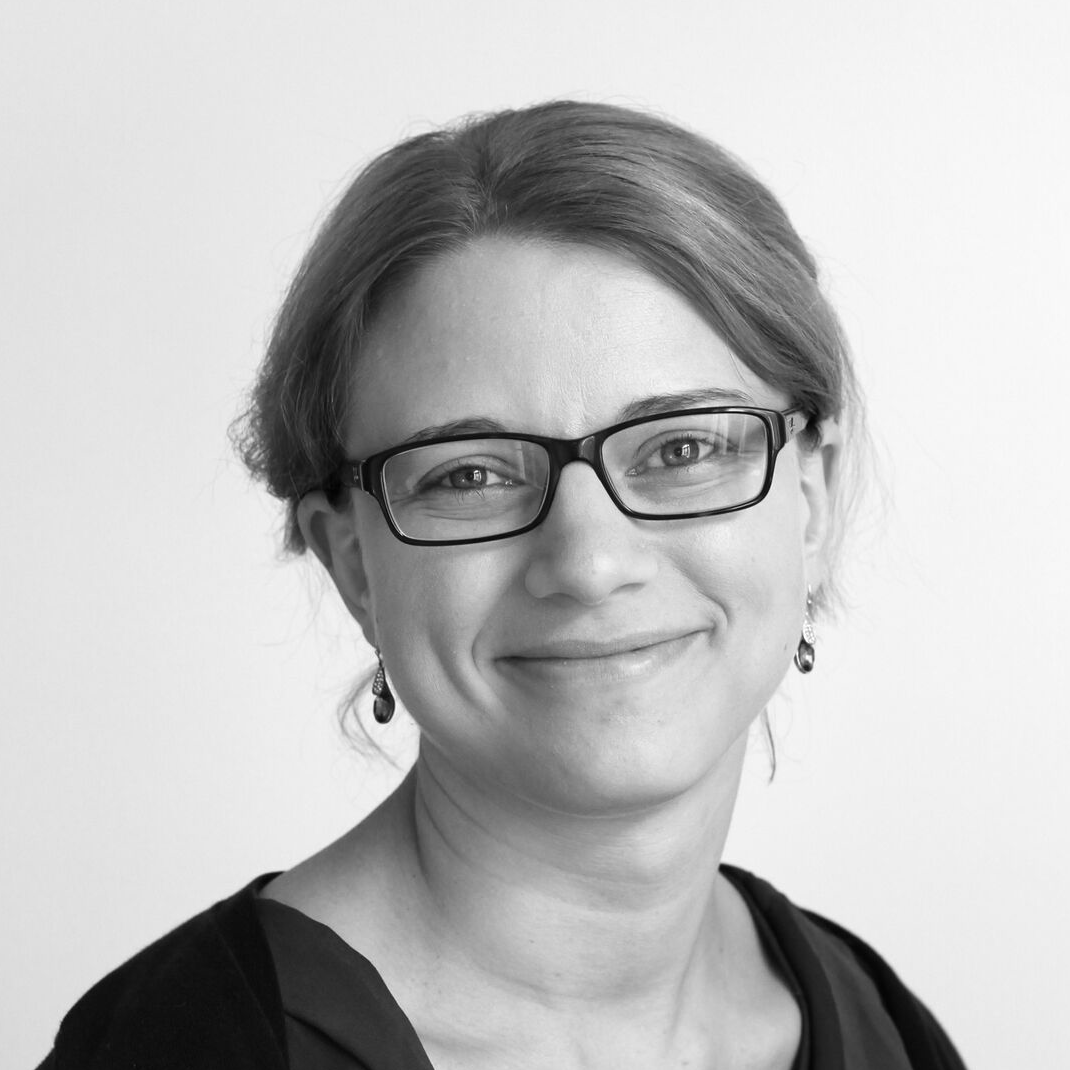
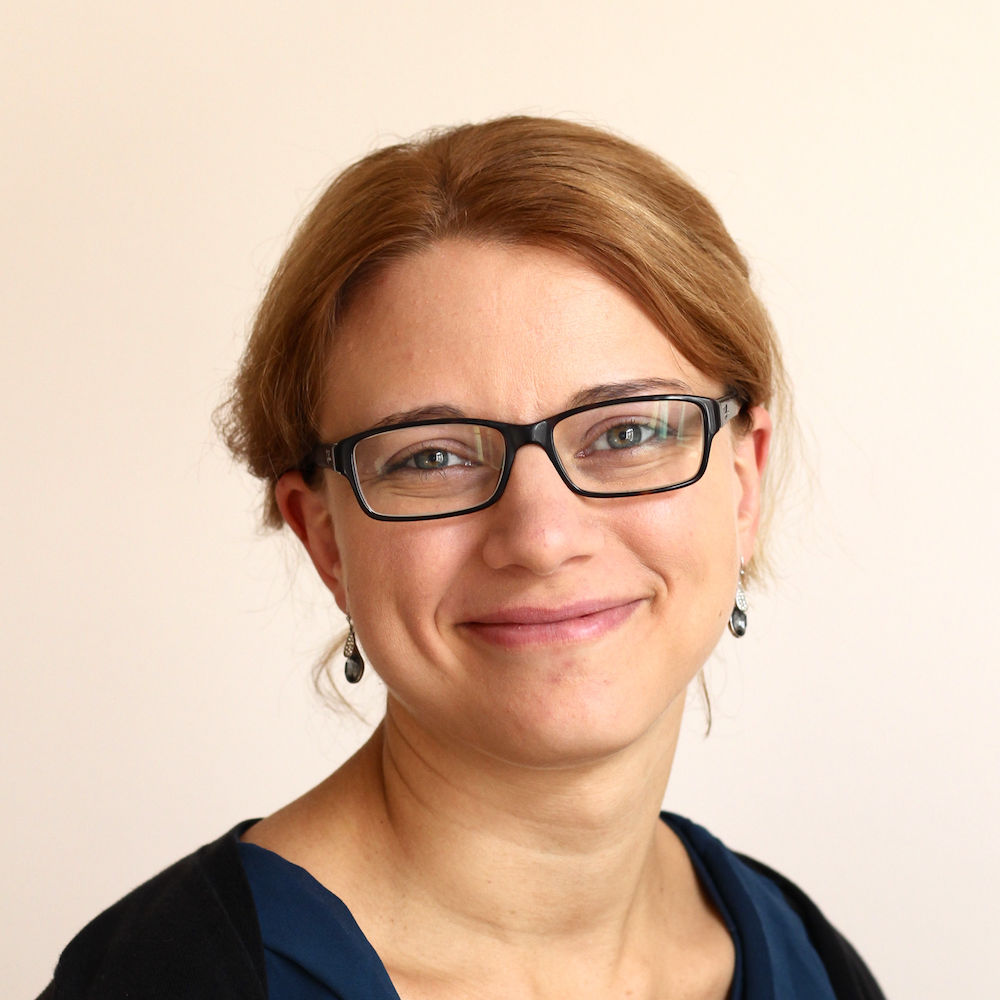
Make speakers' photos colored

diff --git a/src/templates/speakerDetails.jsx b/src/templates/speakerDetails.jsx
@@ -10,12 +10,12 @@ export default props => {
 
   const speakerData = {
     ...speakersJson,
-    image: file,
+    image: file
   };
 
   const talkData = {
     ...talksJson,
-    speakers: [speakerData],
+    speakers: [speakerData]
   };
 
   return (
@@ -55,7 +55,7 @@ export const pageQuery = graphql`
     file(relativePath: { eq: $image }) {
       base
       image: childImageSharp {
-        fluid(maxWidth: 400, maxHeight: 400, grayscale: true) {
+        fluid(maxWidth: 400, maxHeight: 400, grayscale: false) {
           ...GatsbyImageSharpFluid
         }
       }

diff --git a/src/pages/2020/speakers.jsx b/src/pages/2020/speakers.jsx
@@ -141,7 +141,7 @@ export default props => {
               node {
                 base
                 image: childImageSharp {
-                  fluid(maxWidth: 600, maxHeight: 600, grayscale: true) {
+                  fluid(maxWidth: 600, maxHeight: 600, grayscale: false) {
                     ...GatsbyImageSharpFluid
                   }
                 }

diff --git a/src/components/index/IndexSpeakers.jsx b/src/components/index/IndexSpeakers.jsx
@@ -86,7 +86,7 @@ export default props => {
               node {
                 base
                 image: childImageSharp {
-                  fluid(maxWidth: 400, maxHeight: 400, grayscale: true) {
+                  fluid(maxWidth: 400, maxHeight: 400, grayscale: false) {
                     ...GatsbyImageSharpFluid
                   }
                 }

diff --git a/src/templates/talkDetails.jsx b/src/templates/talkDetails.jsx
@@ -70,7 +70,7 @@ export const pageQuery = graphql`
         node {
           base
           image: childImageSharp {
-            fluid(maxWidth: 400, maxHeight: 400, grayscale: true) {
+            fluid(maxWidth: 400, maxHeight: 400, grayscale: false) {
               ...GatsbyImageSharpFluid
             }
           }
